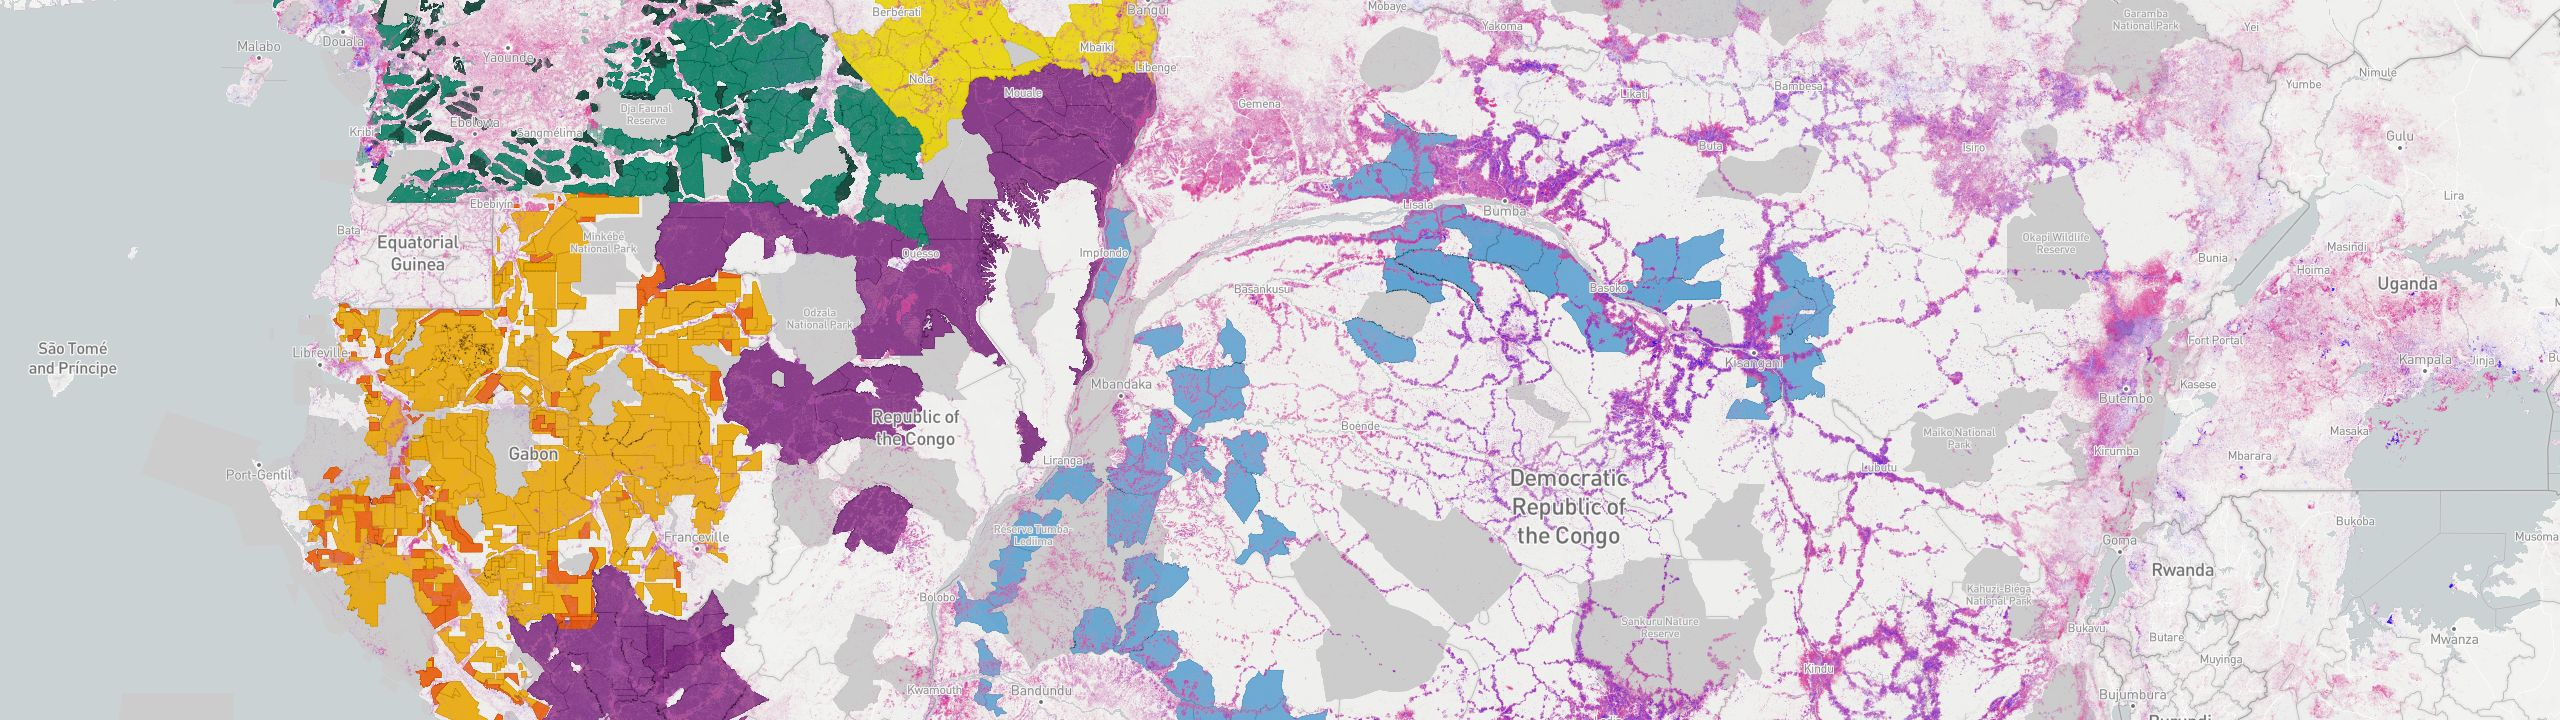
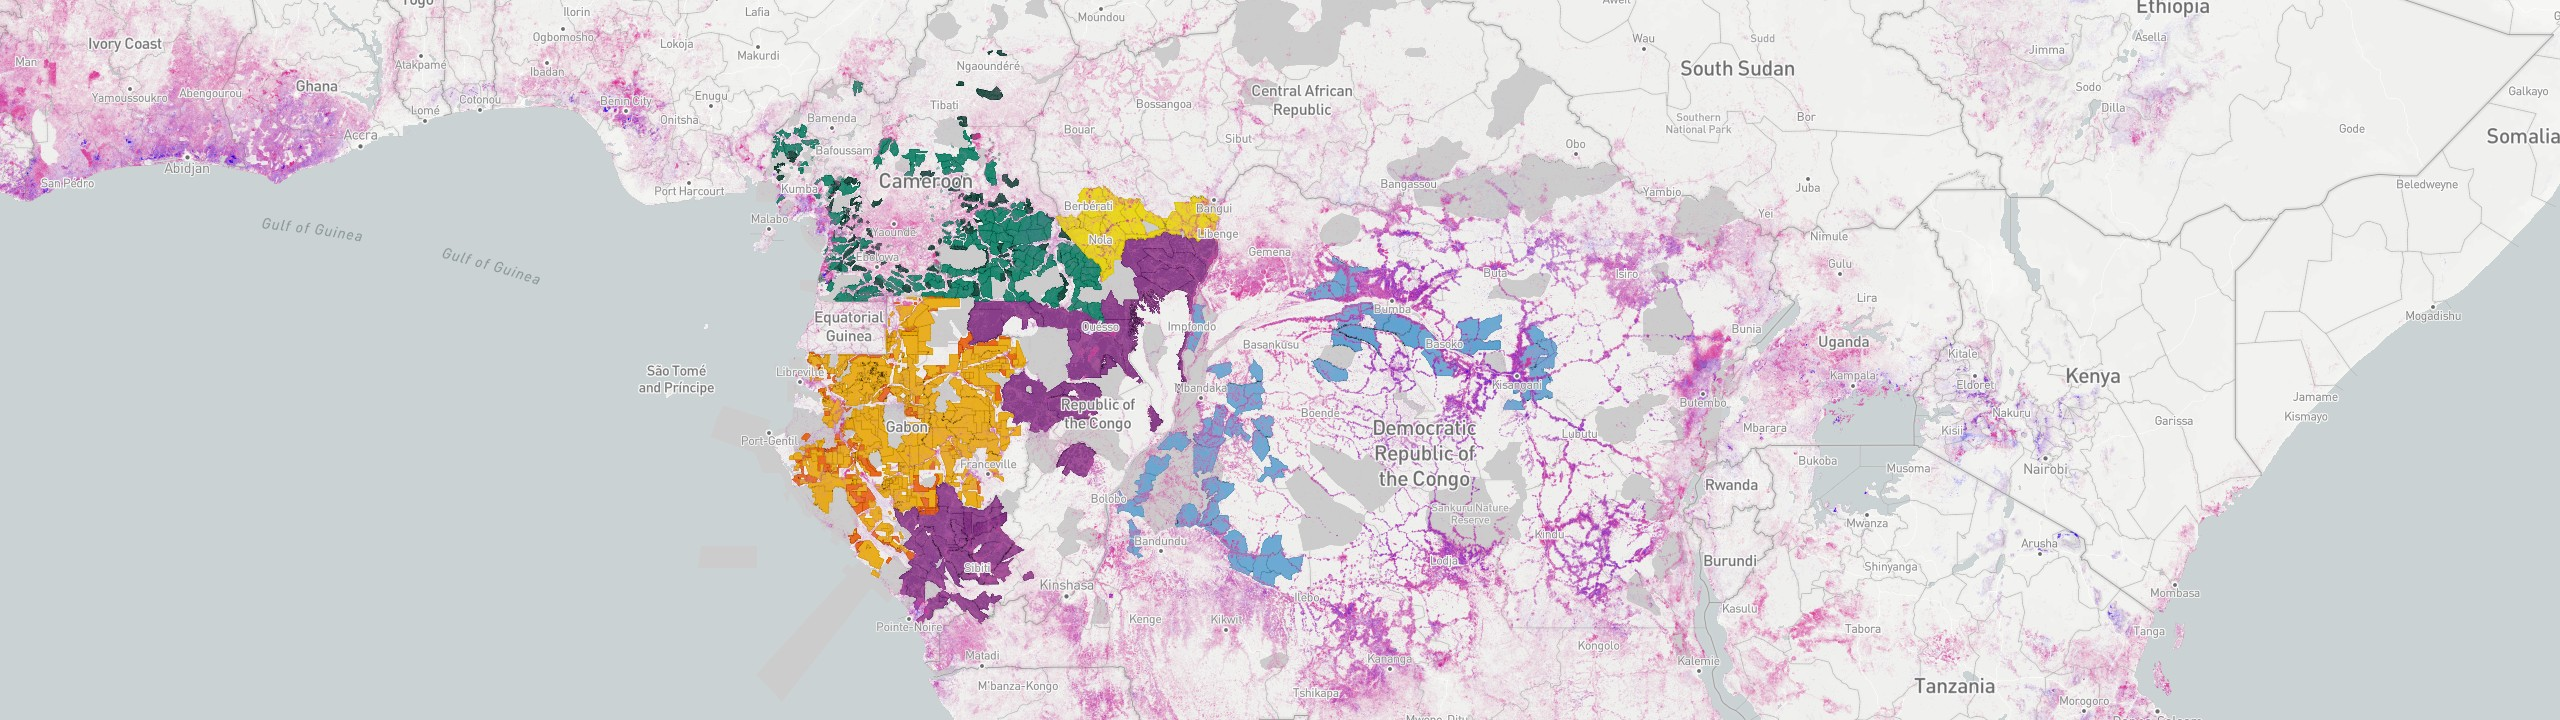
more for map image tuning

diff --git a/pages/map.js b/pages/map.js
@@ -63,7 +63,7 @@ class MapPage extends React.Component {
               <Map
                 mapStyle="mapbox://styles/mapbox/light-v9"
                 viewport={{
-                  zoom: 6,
+                  zoom: 5,
                   latitude: 0,
                   longitude: 20
                 }}

diff --git a/pages/index.js b/pages/index.js
@@ -86,7 +86,6 @@ class HomePage extends React.Component {
 
         {/* SECTION B */}
         <StaticSection
-          className="c-map-section"
           position={{ top: true, right: true }}
           column={5}
           background="/static/images/home/bg-map.jpg"

diff --git a/tools/map-screenshot/index.js b/tools/map-screenshot/index.js
@@ -15,7 +15,7 @@ puppeteer
     });
     await page.screenshot({
       type: 'jpeg',
-      quality: 80,
+      quality: 90,
       path: "../../static/images/home/bg-map.jpg",
       clip: {
         x: 0,

diff --git a/css/components/page/_static-section.scss b/css/components/page/_static-section.scss
@@ -6,7 +6,3 @@
   background-position: center;
   background-size: cover;
 }
-
-.c-map-section {
-  background-position: left center;
-}
